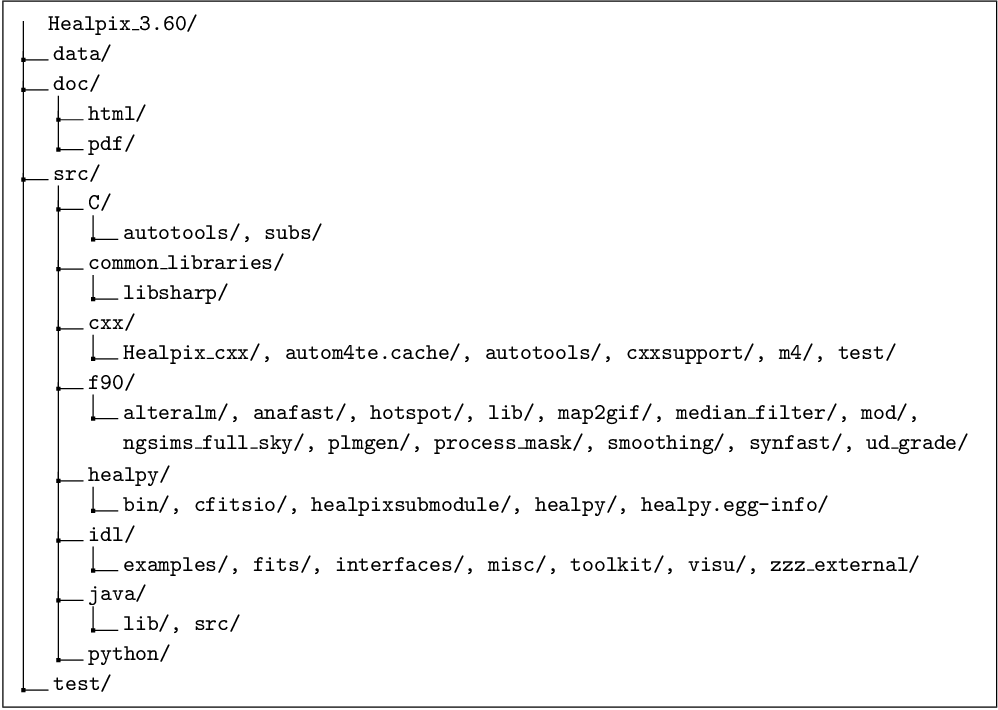
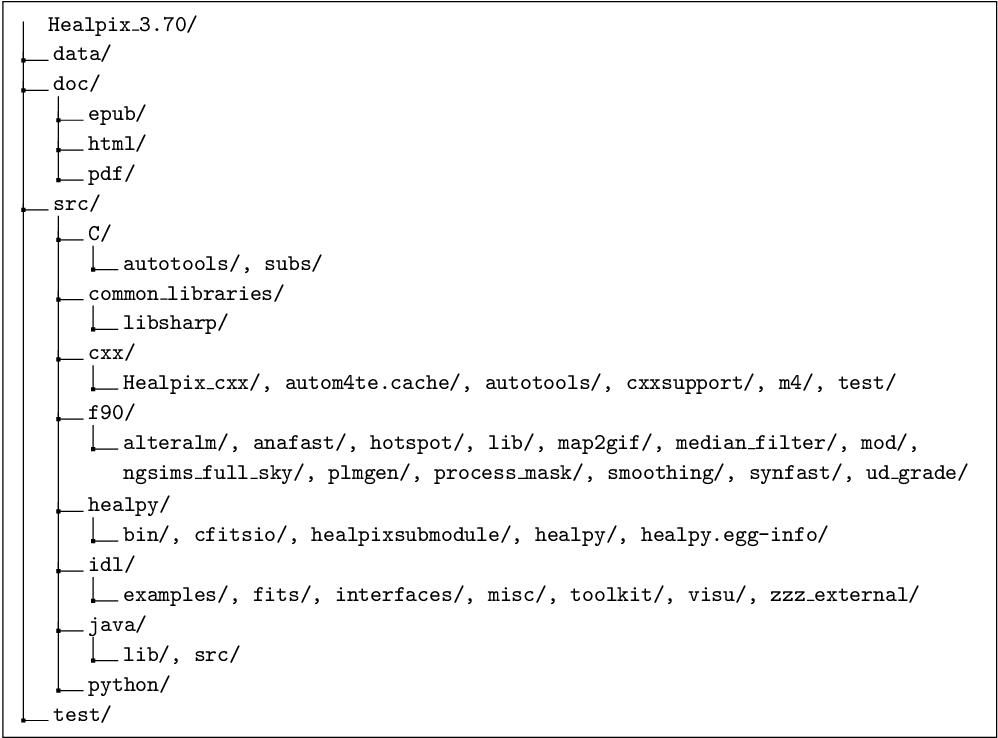
one more time
git-svn-id: svn://svn.code.sf.net/p/healpix/code/trunk@1141 5e3cd54f-fed5-4059-89be-b68eacfec290

diff --git a/doc/TeX/common.css b/doc/TeX/common.css
@@ -4,7 +4,7 @@
 body { color: #000000;
 	background: #FFFFFA;
 	margin: 10px 10px 10px 10px;
-	font: 85% 'Lucida Grande', Geneva, Verdana, Arial, Helvetica, sans-serif;
+	font: 85% 'Lucida Grande', Geneva, Verdana, Arial, Helvetica, Tahoma, sans-serif;
 	line-height: normal;
 }
 	/* font: small 'Lucida Grande', Geneva, Verdana, Arial, Helvetica, sans-serif; */
@@ -126,7 +126,7 @@ SPAN.textit	{ font-style: italic  }
 TABLE.PAD TD	{ padding:3px; }
 TABLE.BORDER TH	{ 
 	border:1px solid black; 
-	background-color: #fefefe;}
+	background-color: #fafafa;}
 TABLE.BORDER TD	{ border:1px solid black; }
 TABLE.BORDER TR:nth-child(even) { background-color: #fffff0;}
 TABLE.BORDER TR:nth-child(odd)  { background-color: #fffffa;}

diff --git a/doc/TeX/install.tex b/doc/TeX/install.tex
@@ -153,7 +153,8 @@ creating a directory named \texttt{Healpix\_\hpxversion}\ whose structure is sho
 \begin{figure}[!ht]
 \latexhtml{%for latex
 % cf extratbb -vO image_file
-\centerline{\includegraphics[bb=0 0 418 284,width=\textwidth,clip]{fig/new_dir_tree.pdf}}
+%\centerline{\includegraphics[bb=0 0 418 284,width=\textwidth,clip]{fig/new_dir_tree.pdf}}
+\centerline{\includegraphics[bb=0 0 399 295,width=\textwidth,clip]{fig/new_dir_tree.pdf}}
 }{%for html
 \centerline{\includegraphics[width=520pt]{fig/new_dir_tree}}% %\centerline{\psfig{figure=fig/dir_tree.eps,width=\textwidth}}
 % \latexhtml{%for latex
